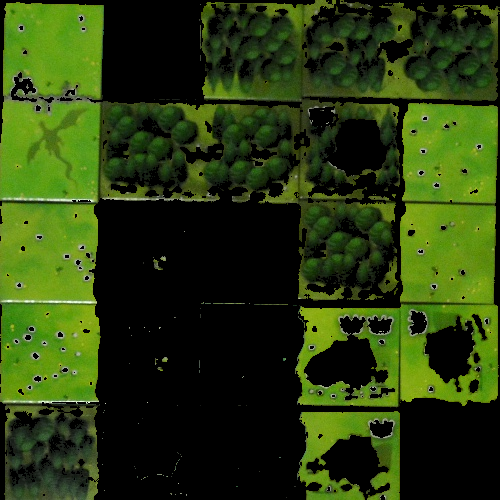
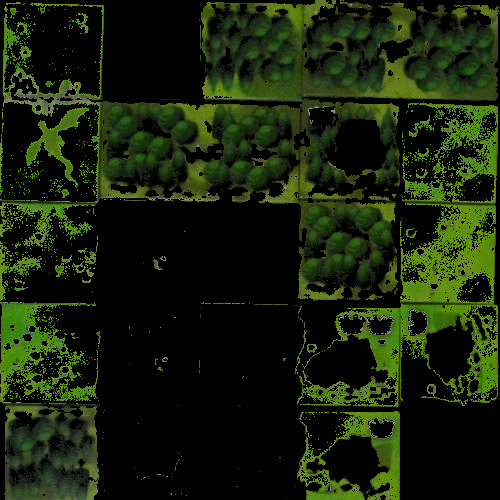
genkendelse af tiles

diff --git a/Main.py b/Main.py
@@ -1,21 +1,88 @@
 import cv2 as cv
 import numpy as np
+import matplotlib.pyplot as plt
 
+#importer billede
 img = cv.imread("ImageFiles/CroppedBoards/1.jpg")
-template = cv.imread("ImageFiles/Templates/Krone.png")
+
+#øg kontrasten
+#plt.subplot(1,2,1)
+
+#brightness = 1
+#contrast = 1.5
+
+#conImg = cv.addWeighted(img, contrast, np.zeros(img.shape, img.dtype), 0, brightness)
+
+#lav et grid med 5 rækker og 5 kolonner
+ROWS, COLS = 5, 5
+cell_height = img.shape[0] // ROWS
+cell_width  = img.shape[1] // COLS
+
+#lav tom matrix
+board = []
+
+#gennemgå hvert enkelt felt og crop det
+for y in range(ROWS):
+    row = []
+    for x in range(COLS):
+        # Klip ét felt ud
+        cell = img[y*cell_height:(y+1)*cell_height,
+                   x*cell_width:(x+1)*cell_width]
+        row.append(cell)
+    board.append(row)
+
+terrain_hsv = {
+    "forest":  ((35, 15, 0), (85, 255, 70)),
+    "Grasslands":  ((35, 50, 70), (85, 255, 255)),
+    "Wheat fields":  ((20, 100, 150), (35, 255, 255)),
+    "Swamps": ((20, 50, 70), (50, 200, 180)),
+    "Mines": ((0, 0, 0), (180, 100, 255)),
+    "Lakes":   ((90, 50, 50), (140, 255, 255))
+}
+
+for y in range(ROWS):
+    for x in range(COLS):
+        cell = board [y][x]
+        hsv_cell = cv.cvtColor(cell, cv.COLOR_BGR2HSV)
+
+        terrain_found = None
+        for terrain, (lower, upper) in terrain_hsv.items():
+            mask = cv.inRange(hsv_cell, np.array(lower), np.array(upper))
+            if cv.countNonZero(mask) > 0.3 * mask.size:  # mere end 50% af pixels matcher
+                terrain_found = terrain
+                break
+
+        if terrain_found is None:
+            terrain_found = "unknown"  # fallback
+
+                # Gem terræntypen i matrixen
+        board[y][x] = {"terrain": terrain_found, "crowns": 0}
+
+for r, row in enumerate(board):
+        for c, cell in enumerate(row):
+            print(f"Felt ({r},{c}): {cell['terrain']}, {cell['crowns']} kroner")
+
+
+            # Vis feltet i et vindue
+        #window_name = f"Felt {y},{x}"
+        #cv.imshow(window_name, cell)
+
+
+
+#cv.imshow("felt", cells[1][0])
+#cv.waitKey(0)
+#cv.destroyAllWindows()
+''''template = cv.imread("ImageFiles/Templates/Krone.png")
 
 hsv = cv.cvtColor(img, cv.COLOR_BGR2HSV)
 
 #templated = cv.matchTemplate(img, template, cv.TM_CCOEFF_NORMED)
 
-mask = cv.inRange(hsv, (36, 25, 25), (70, 255,255))
+mask = cv.inRange(hsv, (36, 25, 25), (70, 255,100))
 
 imask = mask>0
 green = np.zeros_like(img, np.uint8)
 green[imask] = img[imask]
 
-cv.imwrite("green.png", green)
-
-
 cv.imshow("green img", green)
-cv.waitKey(0)
+cv.waitKey(0)'''
